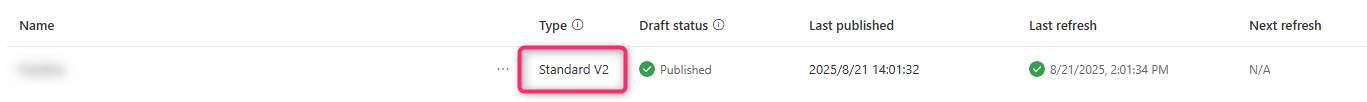
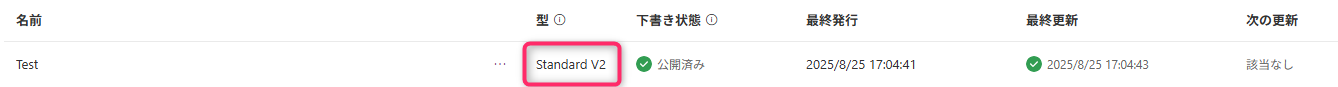
FBをもとに再度修正-0827

diff --git a/articles/powerapps/helpful-information-for-dataflow-sr.md b/articles/powerapps/helpful-information-for-dataflow-sr.md
@@ -102,7 +102,7 @@ categories:
 <a id='anchor-about-dataflow-type'></a>
 
 ## データフローの型
-対象となるデータフローの型については、 Standard V2 でお間違いないかご確認ください。
+対象となるデータフローの「型」列の値についてご教示ください。
 
 ![](./helpful-information-for-dataflow-sr/dataflow-type.png) 
 
@@ -130,13 +130,13 @@ https://learn.microsoft.com/ja-jp/azure/azure-portal/capture-browser-trace#googl
 
 ![](./helpful-information-for-dataflow-sr/developer-resource.png) 
 
-2. [Web API エンドポイント] を取得し、末尾に /msdyn_dataflows を追加したリンクを作成します。
+2. [Web API エンドポイント] を取得し、末尾に /msdyn_dataflows を追加したリンクを作成します。<br>
 例 : https://org **bbca2a.api.crm7.dynamics.com/api/data/v9.2/msdyn_dataflows
 
 ![](./helpful-information-for-dataflow-sr/webapi-endpoint.png)
 
-3. 項番 2 にて作成したリンクにアクセスし、保存します。
-※ 以下の画面は Edge での例となります。
+3. 項番 2 にて作成したリンクにアクセスし、保存します。<br>
+※ 以下の画面は Edge での例となります。　
 ※ 保存時に、ファイル名に環境 ID などの記載いただけますと幸いです。
 
 ![](./helpful-information-for-dataflow-sr/access-link.png)
@@ -153,7 +153,7 @@ https://learn.microsoft.com/ja-jp/azure/azure-portal/capture-browser-trace#googl
 <a id='anchor-solution-export'></a>
 
 ## ソリューションのエクスポート
-以下の手順にて対象のデータフローをソリューションに含めていただき、アンマネージメントソリューションにてエクスポートをいただけますようお願いいたします。（実装の内容やご利用のコネクタについて確認をさせていただきます。）
+以下の手順にて対象のデータフローをソリューションに含めていただき、アンマネージドにてエクスポートをいただけますようお願いいたします。（実装の内容やご利用のコネクタについて確認をさせていただきます。）
 1. Power Automate ( https://make.powerautomate.com/ )を開き、「ソリューション」をご選択ください（環境名がデータフローのものと一致しているかご確認ください）。<br>
 ![](./helpful-information-for-dataflow-sr/pa-solution.png)
 
@@ -191,7 +191,7 @@ https://learn.microsoft.com/ja-jp/azure/azure-portal/capture-browser-trace#googl
 対象のデータフロー所有者のユーザーアカウントをご教示ください。
 もしご不明の場合は、対象のデータフローが含まれているソリューションをご選択いただき、
 下記画像の通りに表示名がございますので、そちらをご教示いただければ幸いです。
-※所有者の UPN もしくはオブジェクト ID がわかる場合は、そちらも合わせてご提供ください。
+※所有者の UPN もしくはオブジェクト ID がわかる場合は、そちらも併せてご提供ください。
 
 ![](./helpful-information-for-dataflow-sr/user-account.png)
 ---
